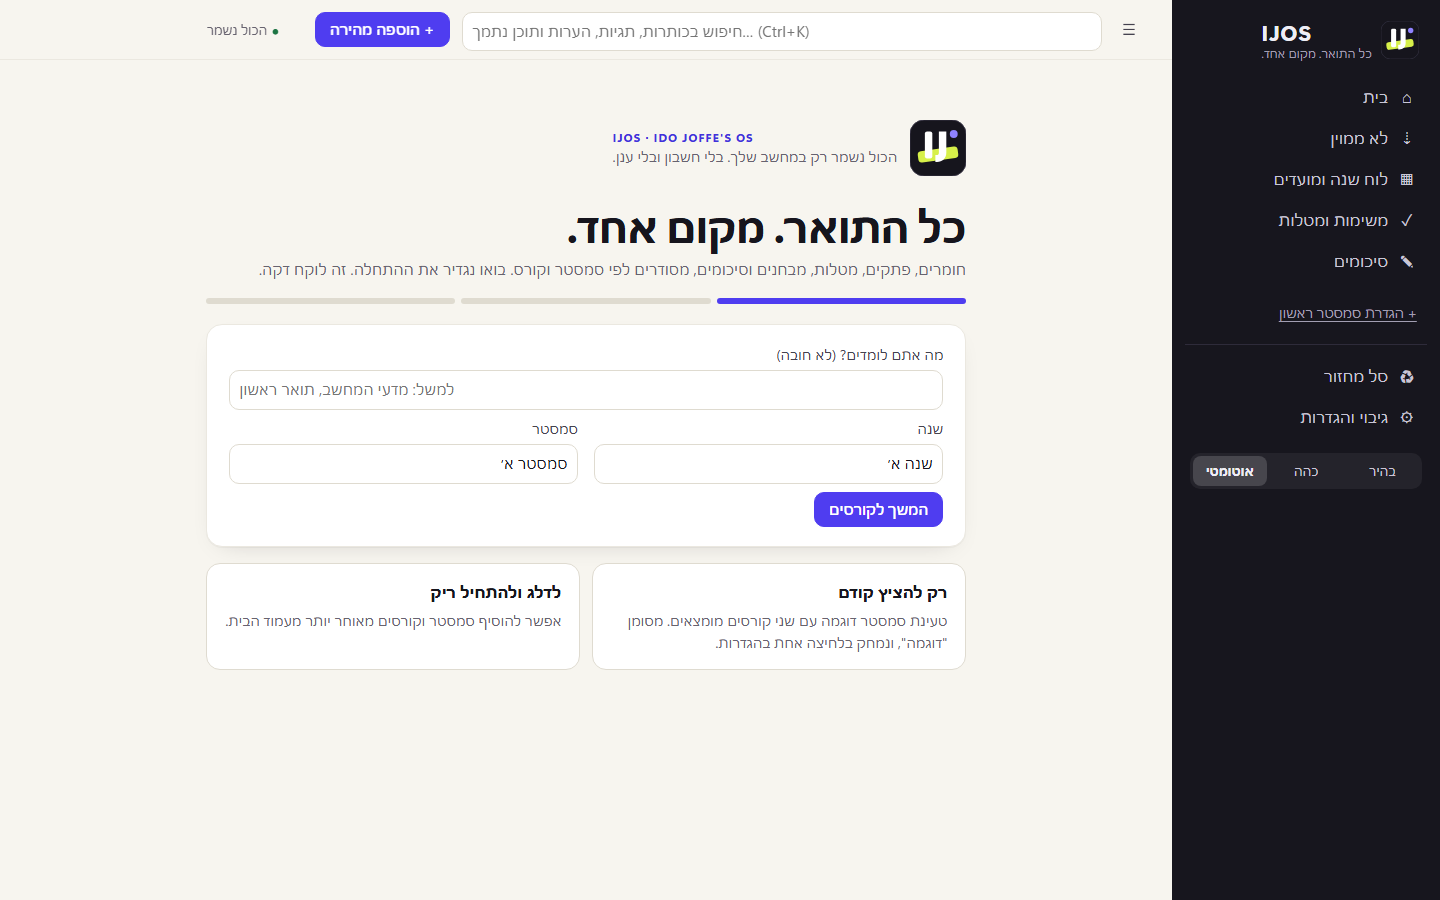
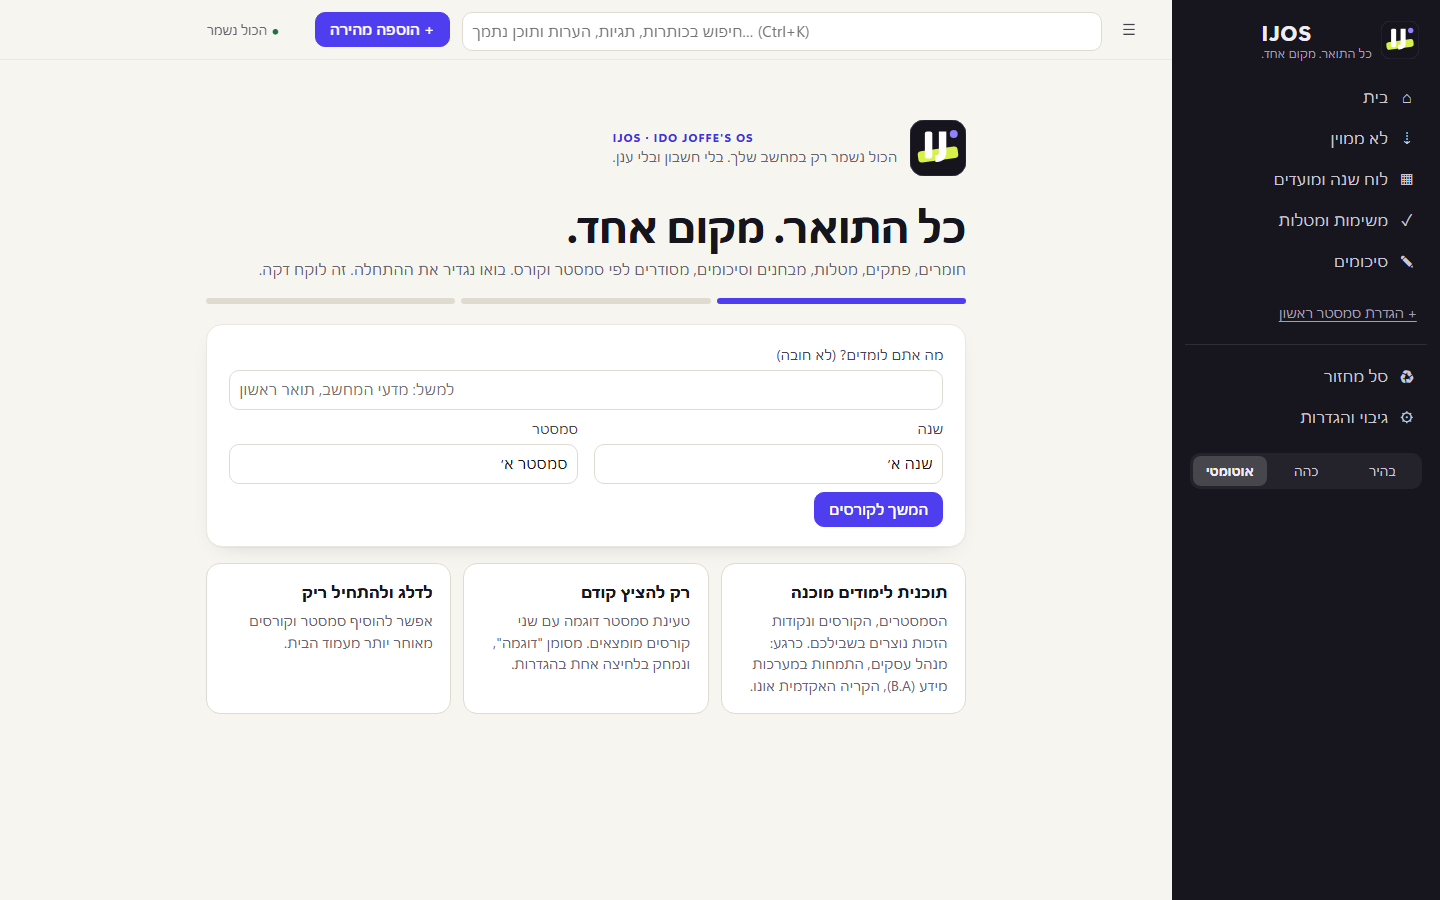
Add ready-made degree plan: tick courses instead of typing them
A plan is plain data (public/js/plans.js). The first one is the first
semester of the Ono B.A. in Business Administration (Information Systems),
with course names and credits as printed in the published curriculum.
Reachable from onboarding and from the semester page. Applying a plan only
adds: existing years, semesters and courses are matched by name and left
alone. No server or schema change.

README: describe the plan, and name the font licence next to KaTeX's.

Changed region(s): [[0.1562, 0.6533, 0.6562, 0.7778]]

diff --git a/public/js/views/onboard.js b/public/js/views/onboard.js
@@ -1,17 +1,19 @@
 // First-run onboarding: program → year + semester → courses → materials (or skip). Everything stays editable later.
 import { html, raw, str, api, toast } from '../util.js';
-import { S, T, create, reload } from '../store.js';
+import { S, T, create, reload, activeSemester } from '../store.js';
 import { bind, pickFiles } from '../ui.js';
 import { LOGO } from '../app.js';
+import { PLANS, matchPlan } from '../plans.js';
 
 export const PALETTE = ['#4f3df0', '#e2562f', '#1d9a6c', '#d6409f', '#2f7de2', '#c98a00', '#7a4fd6', '#0f8f9e'];
 const done = () => api('PUT', '/api/settings/onboarded', { value: '1' });
+const logoHead = () => html`<div class="onboard-logo">${raw(LOGO)}<div><p class="eyebrow" dir="ltr">IJOS · Ido Joffe's OS</p><p class="muted small" style="margin:0">הכול נשמר רק במחשב שלך. בלי חשבון ובלי ענן.</p></div></div>`;
 
 export function welcome(root, _, query) {
   const step = Number(query.get('step')) || 1;
   const sem = T('semesters').find(s => s.id === Number(query.get('sem')));
   const stepper = html`<ol class="steps" aria-label="שלב ${step} מתוך 3">${[1, 2, 3].map(i => html`<li class="${i <= step ? 'on' : ''}"></li>`)}</ol>`;
-  const head = html`<div class="onboard-logo">${raw(LOGO)}<div><p class="eyebrow" dir="ltr">IJOS · Ido Joffe's OS</p><p class="muted small" style="margin:0">הכול נשמר רק במחשב שלך. בלי חשבון ובלי ענן.</p></div></div>`;
+  const head = logoHead();
 
   if (step === 1) {
     root.innerHTML = str(html`<div class="onboard">${head}<h1>כל התואר. מקום אחד.</h1>
@@ -22,6 +24,7 @@ export function welcome(root, _, query) {
         <div class="actions"><button class="btn btn-primary">המשך לקורסים</button></div>
       </form>
       <div class="choice">
+        <button type="button" data-act="plan"><strong>תוכנית לימודים מוכנה</strong><span class="small muted">הסמסטרים, הקורסים ונקודות הזכות נוצרים בשבילכם. כרגע: ${PLANS.map(p => html`<bdi>${p.name}, ${p.school}</bdi>`)}.</span></button>
         <button type="button" data-act="sample"><strong>רק להציץ קודם</strong><span class="small muted">טעינת סמסטר דוגמה עם שני קורסים מומצאים. מסומן "דוגמה", ונמחק בלחיצה אחת בהגדרות.</span></button>
         <button type="button" data-act="skip"><strong>לדלג ולהתחיל ריק</strong><span class="small muted">אפשר להוסיף סמסטר וקורסים מאוחר יותר מעמוד הבית.</span></button>
       </div></div>`);
@@ -32,6 +35,7 @@ export function welcome(root, _, query) {
         const s = await create('semesters', { year_id: y.id, name: d.semester.trim(), status: 'active', sort: T('semesters').length + 1 });
         location.hash = `#/welcome?step=2&sem=${s.id}`;
       },
+      plan: () => { location.hash = '#/plan'; },
       sample: async () => { await api('POST', '/api/sample'); await done(); await reload(); toast('נטען סמסטר דוגמה. כל מה שמסומן "דוגמה" מומצא.'); location.hash = '#/'; },
       skip: async () => { await done(); await reload(); location.hash = '#/'; },
     });
@@ -69,5 +73,48 @@ export function welcome(root, _, query) {
   bind(root, {
     files: async () => { await done(); await reload(); location.hash = '#/'; pickFiles({}); },
     finish: async () => { await done(); await reload(); toast('מוכנים. בהצלחה בסמסטר!'); location.hash = '#/'; },
+  });
+}
+
+// Ready-made degree plan: tick the courses to add. It only adds. Existing years, semesters and courses are matched by name and left alone.
+export function plan(root) {
+  const p = PLANS[0]; // ponytail: one plan today. Add a chooser here when a second plan lands in plans.js.
+  const match = () => matchPlan(p, { years: T('years'), semesters: T('semesters'), courses: T('courses') });
+  const fresh = !T('semesters').length;
+  root.innerHTML = str(html`<div class="onboard">${fresh ? logoHead() : ''}<h1>תוכנית לימודים מוכנה</h1>
+    <p class="hero-date"><bdi>${p.name}</bdi> · <bdi>${p.school}</bdi>. סמנו מה להוסיף. שום דבר קיים לא משתנה, ואפשר לערוך ולמחוק הכול אחר כך.</p>
+    <form class="card" data-submit="apply">
+      ${match().map(g => html`<fieldset><legend><bdi>${g.yearName}</bdi> · <bdi>${g.name}</bdi></legend>
+        ${g.busy ? html`<p class="hint">בסמסטר הזה כבר יש לכם קורסים, אז שום דבר לא מסומן מראש. סמנו רק מה שחסר.</p>` : ''}
+        ${g.courses.map(c => html`<label class="check"><input type="checkbox" name="c" value="${c.id}" ${raw(c.exists ? 'disabled' : g.busy ? '' : 'checked')}> <bdi>${c.name}</bdi>
+          <span class="muted small">${c.exists ? 'כבר קיים' : c.credits == null ? 'לא נספר בנק״ז' : `${c.credits} נק״ז`}</span></label>`)}</fieldset>`)}
+      <p class="hint">${p.source}</p>
+      <p class="hint">סמסטר חדש מסומן כפעיל אם עוד אין לכם סמסטר פעיל, ואחרת כ"עתידי". אפשר לשנות בעמוד הסמסטר.</p>
+      <div class="actions"><button class="btn btn-primary">הוספת הקורסים המסומנים</button><a class="btn" href="${fresh ? '#/welcome' : '#/'}">ביטול</a></div>
+    </form></div>`);
+  bind(root, {
+    apply: async f => {
+      const picked = new Set([...f.querySelectorAll('[name=c]:checked')].map(i => i.value));
+      const btn = f.querySelector('button');
+      btn.disabled = true; // a second click must not add everything twice
+      let first, n = 0;
+      try {
+        for (let i = 0; i < match().length; i++) {
+          const g = match()[i]; // matched again each round: the year created for one semester is reused by the next
+          const add = g.courses.filter(c => picked.has(c.id) && !c.exists);
+          if (!add.length) continue;
+          const year = g.year || await create('years', { name: g.yearName, sort: T('years').length + 1 });
+          const sem = g.sem || await create('semesters', { year_id: year.id, name: g.name, status: activeSemester() ? 'planned' : 'active', sort: T('semesters').length + 1 });
+          const base = T('courses').filter(c => c.semester_id === sem.id).length;
+          for (const [k, c] of add.entries()) await create('courses', { semester_id: sem.id, name: c.name, credits: c.credits, counts_credits: c.credits != null, color: PALETTE[(base + k) % PALETTE.length], sort: base + k + 1 });
+          first ??= sem; n += add.length;
+        }
+      } finally { btn.disabled = false; }
+      if (!n) { toast('לא סומן אף קורס חדש'); return; }
+      if (!S.data.settings.program) await api('PUT', '/api/settings/program', { value: p.name });
+      await done(); await reload();
+      toast(`נוספו ${n} קורסים. שמות, צבעים ונקודות זכות אפשר לשנות בכל רגע.`);
+      location.hash = `#/semester/${first.id}`;
+    },
   });
 }

diff --git a/public/js/plans.js b/public/js/plans.js
@@ -1,0 +1,34 @@
+// Ready-made degree plans: years → semesters → courses as [name, credits]. credits null = not counted towards the degree.
+// Applying a plan only adds what the student ticks; it never changes or removes existing records.
+// To add your degree: copy an entry, keep the shape, and say in `source` which published document it follows.
+export const PLANS = [{
+  id: 'ono-ba-mis',
+  name: 'מנהל עסקים, התמחות במערכות מידע (B.A)',
+  school: 'הקריה האקדמית אונו',
+  source: 'לפי מאזן הלימודים שפורסם לשנת תשפ״ז. התוכנית כפופה לשינויים, אז כדאי להשוות למערכת השעות שלכם.',
+  years: [{
+    name: 'שנה א׳',
+    // Course names and credits exactly as printed in the published document. Only the first semester is included.
+    semesters: [{
+      name: 'סמסטר א׳',
+      courses: [['מתמטיקה למנע״ס + תרגול', 5.5], ['אוריינות אקדמית', 3], ['מבוא לתכנות עם JS + תרגול', 5], ['מבוא למערכות מידע', 3],
+        ['יישומי אקסל למנהלים ולניתוח נתונים + תרגול', 3.5], ['משפט עסקי', 3], ['מחוייבות קהילתית', 2], ['אנגלית טרום בסיסי א׳+ב׳', null]],
+    }],
+  }],
+}];
+
+// Names match on letters and digits only, so "שנה א'" and "שנה א׳" are the same year.
+const key = s => String(s).normalize('NFKC').replace(/[^\p{L}\p{N}]/gu, '').toLowerCase();
+
+// One entry per plan semester: where it lands in the student's data (if it exists already) and which of its courses are already there.
+export function matchPlan(plan, { years, semesters, courses }) {
+  return plan.years.flatMap((y, yi) => {
+    const year = years.find(r => key(r.name) === key(y.name));
+    return y.semesters.map((s, si) => {
+      const sem = year && semesters.find(r => r.year_id === year.id && key(r.name) === key(s.name));
+      const have = sem ? courses.filter(c => c.semester_id === sem.id) : [];
+      return { yearName: y.name, name: s.name, year, sem, busy: have.length > 0,
+        courses: s.courses.map(([name, credits], ci) => ({ id: `${yi}.${si}.${ci}`, name, credits, exists: have.some(c => key(c.name) === key(name)) })) };
+    });
+  });
+}

diff --git a/test/plans.test.js b/test/plans.test.js
@@ -1,0 +1,40 @@
+import test from 'node:test';
+import assert from 'node:assert/strict';
+import { PLANS, matchPlan } from '../public/js/plans.js';
+
+test('plans: well-formed, and the Ono plan is the first semester only, with its 25 credits', () => {
+  assert.equal(new Set(PLANS.map(p => p.id)).size, PLANS.length);
+  for (const p of PLANS) {
+    assert.ok(p.name && p.school && p.source);
+    for (const s of p.years.flatMap(y => y.semesters)) {
+      assert.equal(new Set(s.courses.map(c => c[0])).size, s.courses.length, `duplicate course in ${s.name}`);
+      for (const [name, credits] of s.courses) assert.ok(name.trim() && (credits === null || credits > 0), name);
+    }
+  }
+  const sum = s => s.courses.reduce((n, c) => n + (c[1] ?? 0), 0);
+  assert.deepEqual(PLANS.find(p => p.id === 'ono-ba-mis').years.flatMap(y => y.semesters).map(sum), [25]);
+});
+
+test('plans: matching finds existing years, semesters and courses by name and never flags the rest', () => {
+  const plan = PLANS[0];
+  const fresh = matchPlan(plan, { years: [], semesters: [], courses: [] });
+  assert.ok(fresh.every(g => !g.year && !g.sem && !g.busy && g.courses.every(c => !c.exists)));
+  assert.equal(new Set(fresh.flatMap(g => g.courses.map(c => c.id))).size, fresh.flatMap(g => g.courses).length, 'course ids are unique');
+
+  // The student typed the year with a plain apostrophe, has one course from the plan and one of their own.
+  const years = [{ id: 7, name: "שנה א'" }];
+  const [a] = matchPlan(plan, {
+    years, semesters: [{ id: 3, year_id: 7, name: 'סמסטר א׳' }],
+    courses: [{ id: 1, semester_id: 3, name: 'משפט  עסקי' }, { id: 2, semester_id: 3, name: 'קורס משלי' }],
+  });
+  assert.equal(a.year.id, 7);
+  assert.equal(a.sem.id, 3);
+  assert.equal(a.busy, true);
+  assert.deepEqual(a.courses.filter(c => c.exists).map(c => c.name), ['משפט עסקי']);
+
+  // A same-named semester under another year is not a match, and its courses do not count.
+  const [b] = matchPlan(plan, { years, semesters: [{ id: 4, year_id: 99, name: 'סמסטר א׳' }], courses: [{ id: 5, semester_id: 4, name: 'משפט עסקי' }] });
+  assert.equal(b.year.id, 7);
+  assert.equal(b.sem, undefined);
+  assert.ok(!b.busy && b.courses.every(c => !c.exists));
+});

diff --git a/public/js/views/course.js b/public/js/views/course.js
@@ -31,7 +31,7 @@ export function semester(root, [id]) {
       <ul class="plain">${sems.map(x => html`<li class="row-between"><a href="#/semester/${x.id}">${byId('years', x.year_id)?.name} · ${x.name}</a>
         <label>סטטוס <select name="status" data-change="field" data-table="semesters" data-id="${x.id}" data-refresh>${options({ active: 'פעיל', planned: 'עתידי', done: 'הסתיים' }, x.status)}</select></label></li>`)}</ul>
       <p class="hint">רק סמסטרים פעילים מוצגים בתפריט. סמסטרים עתידיים נשמרים ברקע עד שתפעילו אותם.</p>
-      <button class="btn btn-sm" data-act="add-sem">+ סמסטר</button></section>
+      <div class="actions"><button class="btn btn-sm" data-act="add-sem">+ סמסטר</button><a class="btn btn-sm" href="#/plan">הוספה מתוכנית לימודים מוכנה</a></div></section>
   </div>`);
   bind(root, {
     ...fieldHandlers,

diff --git a/public/js/app.js b/public/js/app.js
@@ -12,6 +12,7 @@ import * as onboard from './views/onboard.js';
 const routes = [
   [/^\/$/, home.dashboard],
   [/^\/welcome$/, onboard.welcome],
+  [/^\/plan$/, onboard.plan],
   [/^\/inbox$/, course.inbox],
   [/^\/semester\/(\d+)$/, course.semester],
   [/^\/course\/(\d+)(?:\/(\w+))?$/, course.course],

diff --git a/test/e2e_walkthrough.py b/test/e2e_walkthrough.py
@@ -447,13 +447,44 @@ def t_screens(page):
     st = api(page, '/api/state')
     assert not any(c['sample'] for c in st['courses']) and [c['name'] for c in st['courses'] if not c['deleted_at']] == COURSES
 
+@step('ready-made degree plan: fresh install gets the semester; an existing semester only gains what is ticked; applying twice adds nothing')
+def t_plan(page):
+    form = 'form[data-submit=apply]'
+    data3 = tempfile.mkdtemp(prefix='ijos-e2e-plan-'); start_server(PORT2, data3)
+    base2 = f'http://127.0.0.1:{PORT2}'
+    go(page, '/', base2)
+    page.locator('[data-act=plan]').click(); page.wait_for_timeout(500)
+    assert page.locator(f'{form} input:checked').count() == 8
+    shot(page, '35-plan')
+    page.locator(f'{form} button.btn-primary').click(); page.wait_for_timeout(1500)
+    st = api(page, '/api/state')
+    assert [s['status'] for s in st['semesters']] == ['active'], st['semesters']
+    assert len(st['years']) == 1 and len(st['courses']) == 8 and st['settings'].get('onboarded') == '1' and st['settings'].get('program')
+    assert sum(c['credits'] or 0 for c in st['courses']) == 25 and [c['counts_credits'] for c in st['courses'] if c['credits'] is None] == [0]
+    assert page.url.endswith('#/semester/1'), page.url
+    stop_server(PORT2); shutil.rmtree(data3, ignore_errors=True)
+    # The main instance already has "שנה א׳ · סמסטר א׳" with its own courses, one of them also in the plan.
+    go(page, '/semester/1')
+    page.locator('a[href="#/plan"]').click(); page.wait_for_timeout(500)
+    sem_a = page.locator(f'{form} fieldset').first
+    assert sem_a.locator('input:checked').count() == 0, 'a semester that already has courses is not pre-ticked'
+    expect(sem_a.locator('label', has_text='מבוא למערכות מידע').locator('input')).to_be_disabled()
+    sem_a.locator('label', has_text='משפט עסקי').locator('input').check()
+    page.locator(f'{form} button.btn-primary').click(); page.wait_for_timeout(1500)
+    st = api(page, '/api/state')
+    assert len([y for y in st['years'] if not y['deleted_at']]) == 1 and len([s for s in st['semesters'] if not s['deleted_at']]) == 1
+    assert [c['name'] for c in st['courses'] if not c['deleted_at']] == COURSES + ['משפט עסקי']
+    assert page.url.endswith('#/semester/1'), page.url
+    go(page, '/plan')
+    assert page.locator(f'{form} input:disabled').count() == 2 and page.locator(f'{form} input:checked').count() == 0
+
 start_server(PORT, DATA)
 with sync_playwright() as p:
     b = p.chromium.launch()
     page = b.new_page(viewport={'width': 1440, 'height': 900}, locale='he-IL', timezone_id='Asia/Jerusalem')
     page.on('pageerror', lambda e: errors.append(str(e)))
     page.on('console', lambda m: m.type == 'error' and errors.append(m.text))
-    for t in [t_onboard, t_import, t_dash, t_topics, t_html, t_multi_topic, t_note, t_resume, t_unclear, t_office, t_assignment, t_reminder, t_search, t_summary, t_topic_summary, t_trash, t_states, t_narrow, t_backup_restore, t_restart, t_theme, t_a11y, t_long, t_screens]:
+    for t in [t_onboard, t_import, t_dash, t_topics, t_html, t_multi_topic, t_note, t_resume, t_unclear, t_office, t_assignment, t_reminder, t_search, t_summary, t_topic_summary, t_trash, t_states, t_narrow, t_backup_restore, t_restart, t_theme, t_a11y, t_long, t_screens, t_plan]:
         t(page)
     b.close()
 for port in list(procs): stop_server(port)

diff --git a/CONTRIBUTING.md b/CONTRIBUTING.md
@@ -21,6 +21,10 @@ bash test/run_e2e.sh  # browser walkthrough (needs: pip install playwright && py
 
 Use `IJOS_DATA=<folder>` to run against a throwaway data folder while developing.
 
+## Adding a degree plan
+
+Ready-made plans are plain data in `public/js/plans.js`: years → semesters → courses as `[name, credits]` (`null` credits = not counted). Copy an entry and keep the shape. A plan must follow a curriculum the institution has published, and `source` must say which one and for which year. Leave out anything the document does not state clearly. `npm test` checks the shape.
+
 ## Changes to the data model
 
 - Bump `SCHEMA_VERSION` in `server/db.js` and add a migration step that keeps every existing record.
